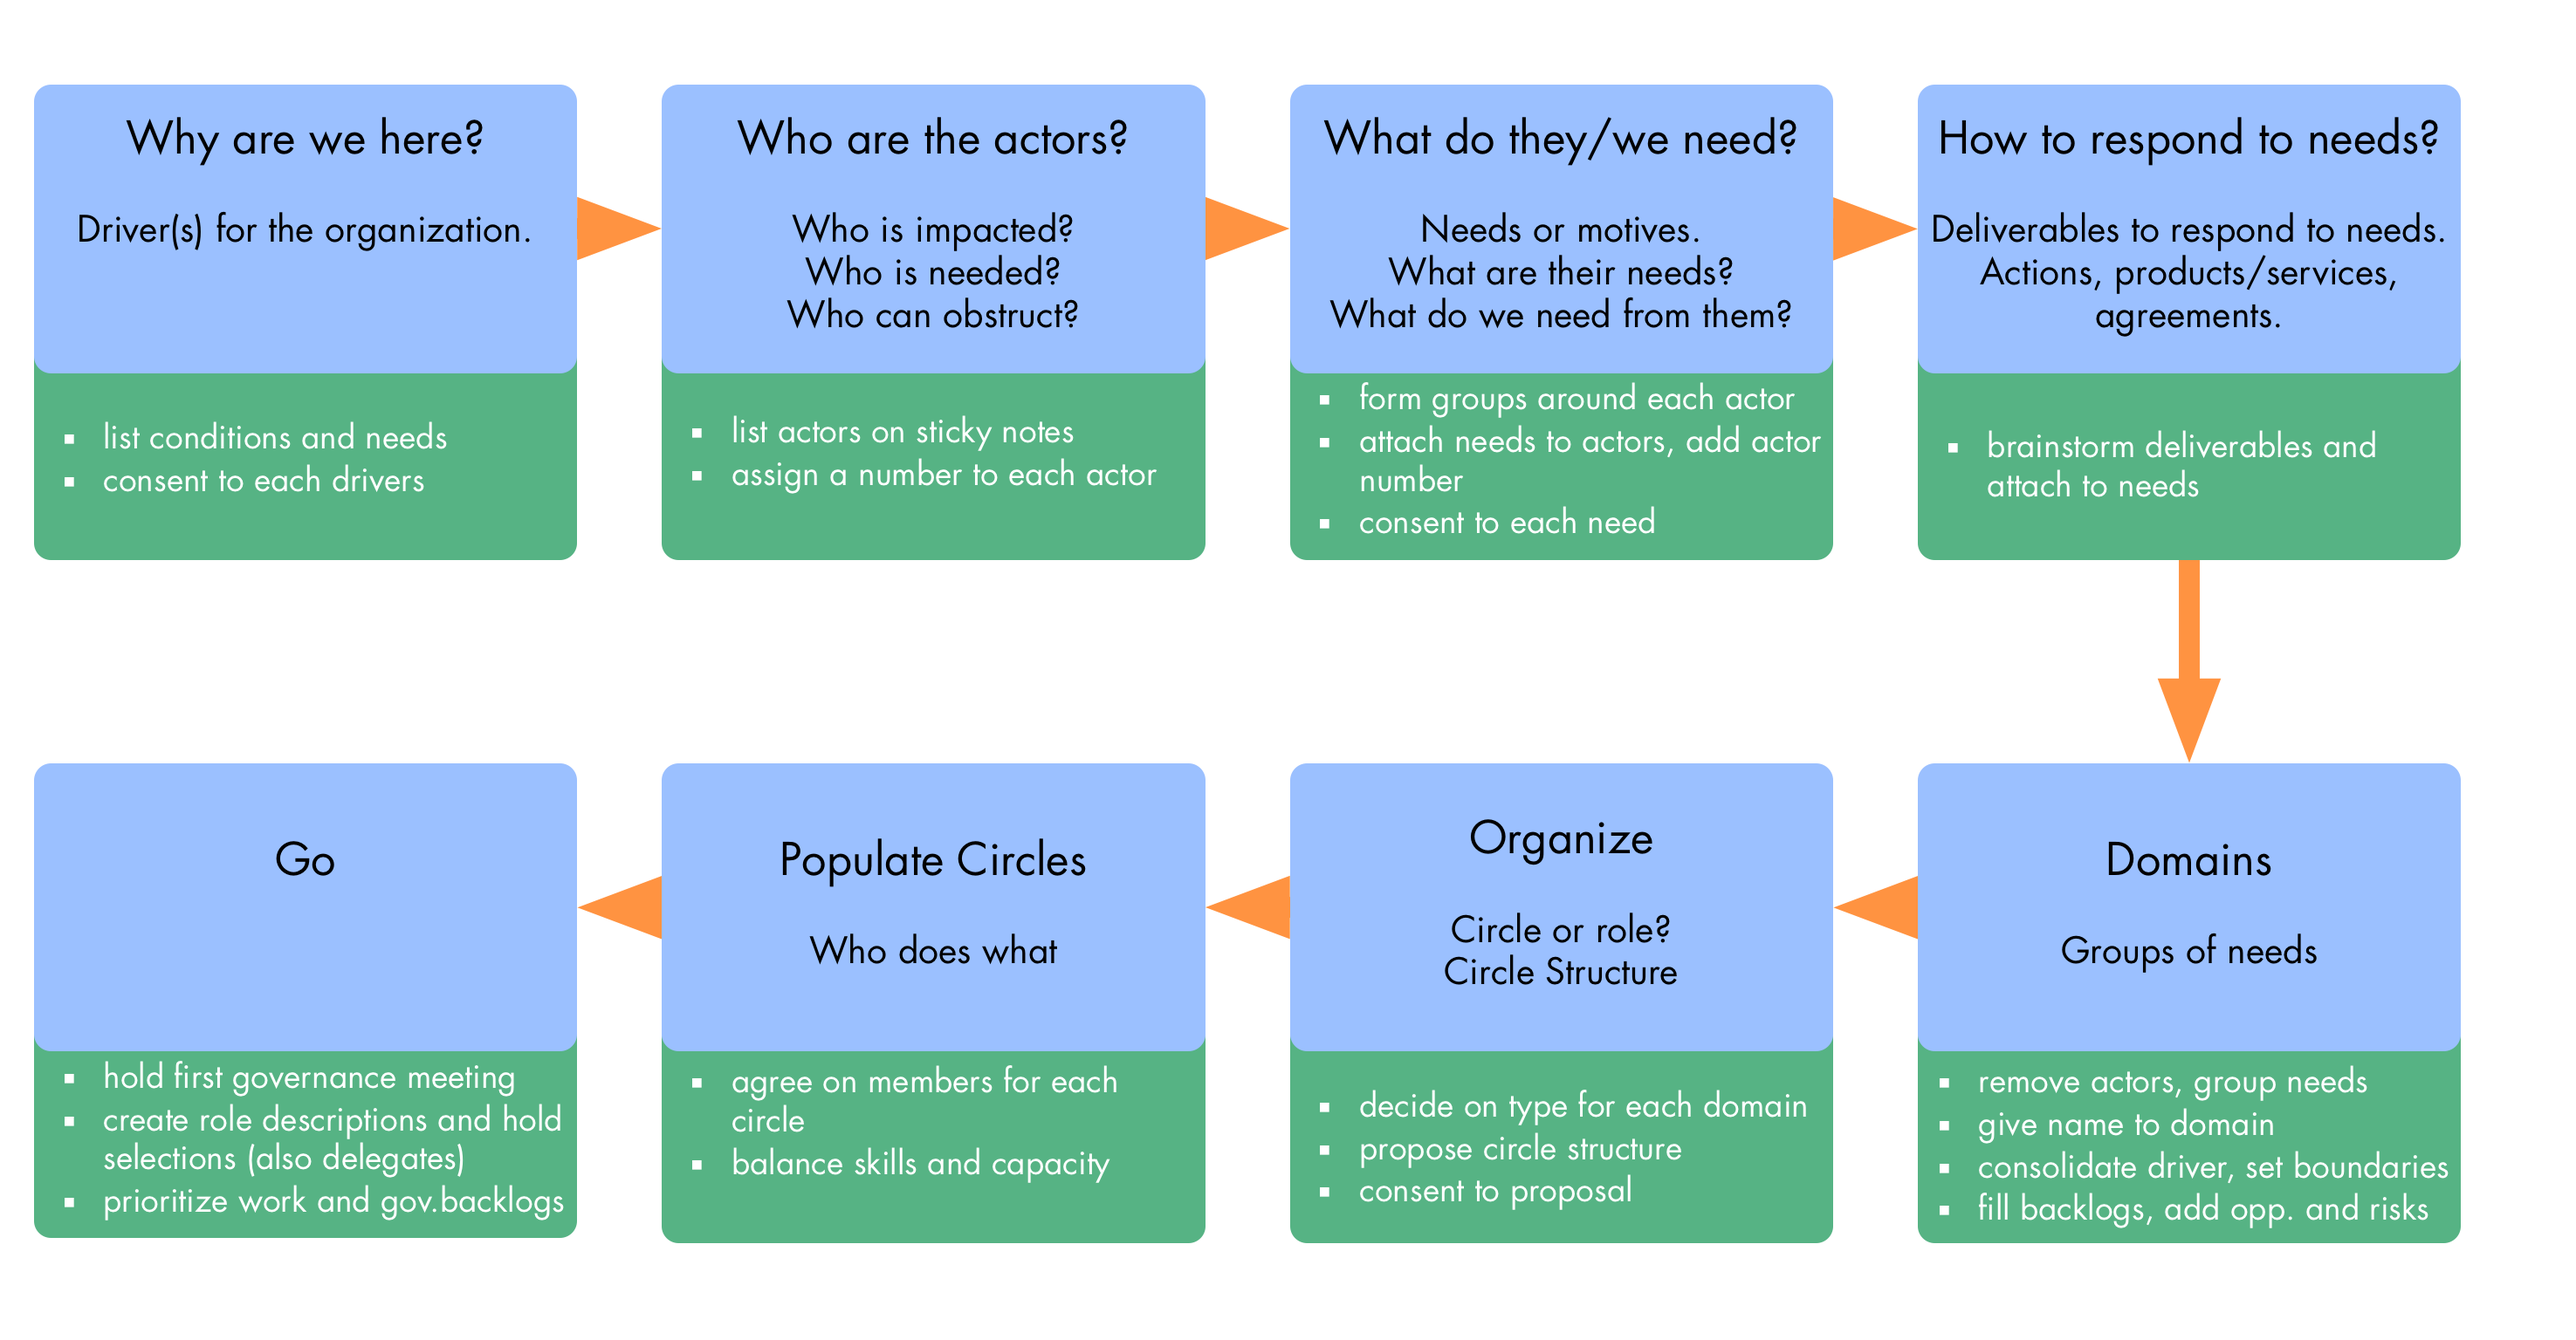
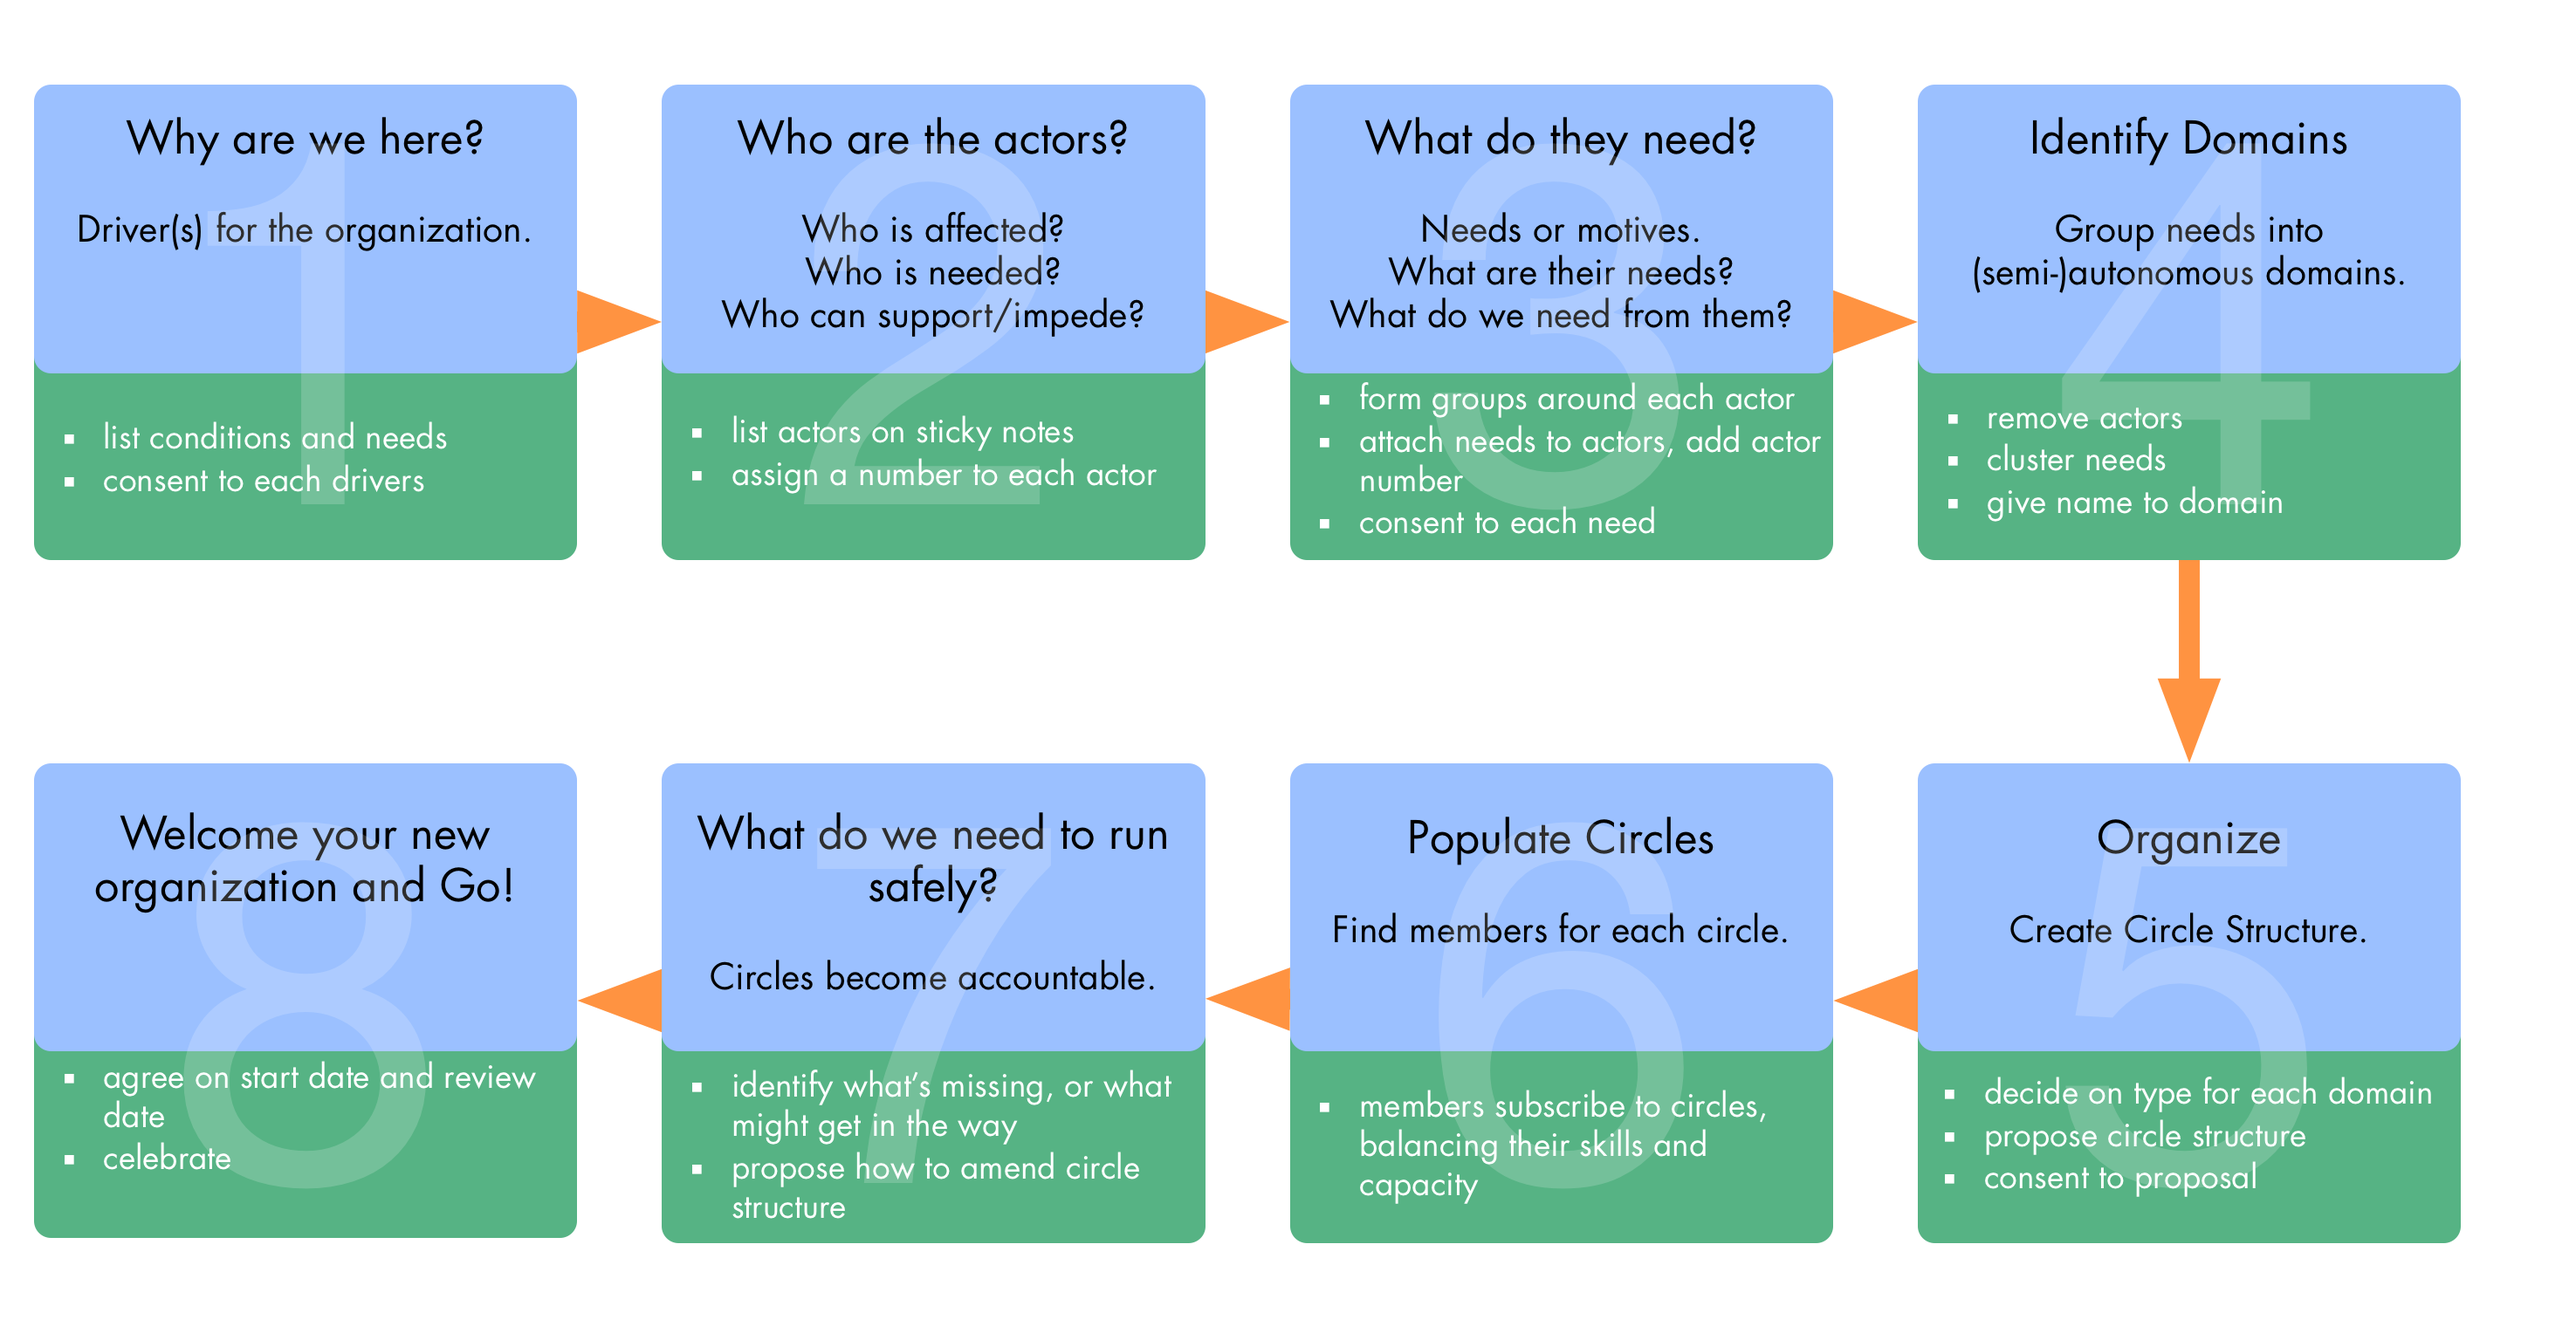
added driver mapping to handbook, updated illustration

diff --git a/driver-mapping.md b/driver-mapping.md
@@ -2,83 +2,143 @@
 title: Driver Mapping
 ---
 
+Driver mapping is a workshop format for identifying organizational structure within a domain or  an entire organization. It's based on *Impact Mapping* by Gojko Adzic, but focussed more on flow of value and information, instead of actual deliverables (identifying deliverables is the accountability of the respective domain).
 
-## Why are we here?
+The result of driver mapping is organizational structure aligned to the pull of external and internal actors, e.g. customers/users, partners, members, communities and municipalities.
 
-(Drivers for the organization)
+Depending on the size of the organization, department or team affected, driver mapping will have to be facilitated in a different way.
 
-* conditions and needs
-* consent to primary/each driver
+Most of the activities described below are suitable for groups of 10-15 people (depending maturity of the group and skill of the facilitator), for larger groups consider having participants self-organize into groups of up to five people, and add activities to consolidate input of the groups and consent to the result.
 
+The implementation of driver mapping explained below is just one way to implement it, make sure to adapt it to your specific needs, e.g. using [Adapt Patterns To Context][].
 
-## Who are the actors?
+## Step 1: Why are we here?
 
-* Who is impacted?
+Understand the driver(s) for the organization, and describe it in terms of needs and conditions and consent to each driver. Output of this phase is one or more posters with details on the driver(s).
+
+* focus on completeness and shared understanding, but don't waste time on writing elegant statements, this is a task for later
+* get input for both internal and external view on the driver(s)
+
+Generative questions:
+
+* individual perspective (first): "why are you with this organization?" and "what is it  you wish for?"
+* organizations perspective (second): "why are we here?"
+
+When working with subgroups for the activities, collect the individual perspective first and share with the whole group before working on the organizational perspective. Instruct subgroups to only share *what* people said, but not to link it to *who* said it.
+
+## Step 2: Who are the actors?
+
+List actors and stakeholders pulling on the organization. Actors can be individuals or groups, also the organization itself, or parts of it, as well as individual members.
+
+Output of this step is a collection of all relevant actors, each on a separate sticky note or card (use the same color for all actors).
+
+Generative questions:
+
+* Who is affected?
 * Who is needed?
-* Who can obstruct?
+* Who can support or impede?
 
-Assign a number to each actor.
+At the end, assign a number to each actor.
 
 
-## What do we/they need?
+## Step 3: What do they need?
 
-Needs or motives (subdrivers)?
+Collect needs and motives.
 
-* What are their needs?
+Output of this step is a collection of needs on sticky notes (use the same color for all needs).
+
+Generative questions:
+
+* What are the needs of each actor?
 * What do we need from them?
 
-* (in a large group: form smalls group around each actor)
-* add needs on stickies to each actor and add the actor’s number
-* make sure group consents to each needs
+* add needs on sticky notes to each actor and add the actor’s number to each one
+* with large group: form smalls group around each actor
+* make sure group consents to each need, explicitly ask them to seek out needs they don't agree with and resolve the resulting objections
+
+## Step 4: Identify Domains
+
+Group needs into (semi-)autonomous domains.
+
+Output of this step is a set of posters with domains, which will later be implemented as circles, roles, or, in some cases, agreements.
+
+Remove actors cards and and group needs into logical clusters, those are your domains.
+
+Move each group to a poster and agree on a meaningful name for each domain.
+
+![A Simple Template for Domains ](img/tension-driver-domain/domain-template.png)
+
+Add boundaries, or other relevant bits of information popping up (risks, questions etc.) on sticky notes to the domains.
 
 
-## How to respond to needs?
+## Step 5: Organize
 
-What could (help) to fulfill the needs: the deliverables and expectations.
+Agree on circle structure for domains.
 
-* actions
-* products or services
-* agreements
+Output of this step is an agreement on how domains will be connected and coordinated (if necessary), as well as the type (circle, role, agreement) for each domain.
 
-Brainstorm ideas and attach them to needs.
+Create a proposal for circle structure (including roles, if any), include delegate circles, coordination circles and service circles to link domains as needed. 
 
+Use proposal forming, or proposal forming for large groups (collect considerations and ideas in small groups and send delegates) to build the proposal.
 
-## Domains
+Consent to proposal and integrate any objections you encounter. 
 
-Remove actors and group needs into logical clusters, those are your domains (circles, roles, or agreements).
-
-Give a meaningful name to each domain.
-
-Consolidate the driver, add conditions, set boundaries/scope of domain (can also be done later) 
-
-Sort deliverables into work backlog (work items, clear, well-defined) and governance backlog (meta-items, large, uncertain, impact way of working)
-
-Brainstorm challenges, impediments, risks and opportunities for each domain and add to governance backlog.
+Add role selections and emerging items to governance backlogs of each domain, and assign the review for the circle structure to the appropriate domain.
 
 
-## Organize
+## Step 6: Populate circles
 
-Process each domain in turn: circle or role (or agreement)?
+Find members for each circle
 
-Create proposal for circle structure (including roles, if any), use delegate circles to link domains as needed.
+Output of this step is a list of members for each circle.
 
-Consent to proposal.
+Generative question:
 
-Add role selections and agreements to governance backlogs.
+* Who can contribute to which circles?
 
-
-## Populate circles
-
-Agree on members for each circle
+People add their name on a sticky note to circles they think they can contribute to effectively, taking into account the their skills and other relevant factors. Should some people decide to be part of several circles, they are accountable for balancing their available time. 
 
 
-## Go
+## Step 7: What do we need to run safely?
 
-Hold first governance meeting, then start working
+Circles meet and make sure their circle is able to respond to its driver effectively.
 
-Create role descriptions and hold selections for roles (including delegates)
+Output of this phase is a collection of proposals for amending circle structures and circle membership, as well as open questions, work items and governance items for each circle.
 
-Prioritize work and governance backlogs
+Have each circle gather around their domain poster and review the domain's viability, both as a (semi-)autonomous unit and in relationship to the rest of the organization.
 
+Identify...
+
+* missing resources or skills or capacity
+* unclear boundaries or scope of the circle
+* open questions
+* required handovers or tasks for transitioning from the previous structure (if any)
+* risks, challenges, impediments and opportunities
+
+...and add them as work items or governance items to the circle poster.
+
+When facilitating this step, visit each circle to support them, and remind participants to visit all the circles they are members of.
+
+Circles create proposals for adapting circle structure or circle membership if necessary, and present them to the whole group. Amend circle structure as needed. 
+
+
+## Step 8: Welcome your new organization
+
+Celebrate your new organization, and agree on start and review date. 
+
+Output of this step is an agreement when the new circle structure will be implemented, when it will be reviewed, and who will guide the process.
 
 ![The Steps of Driver Mapping](img/tension-driver-domain/driver-mapping.png)
+
+
+## What's next? 
+
+Here's a list of things the new circles will have to do, e.g. in their first governance meeting, before they can start working:
+
+* Prioritize work and governance backlogs
+* Refine description of the circle's driver, explain conditions, set clear boundaries/define scope of domain
+* Identify deliverables (tasks, products/services) and reasonable expectations for responding to the circle's driver,  and add them to either the work backlog (work items, clear, well-defined) and governance backlog (meta-items, large, uncertain, impact on way of working)
+* Brainstorm challenges, impediments, risks and opportunities for each domain and add to governance backlog.
+* Create role descriptions and hold selections for roles (including delegates)
+* Make a plan for handover and transition from the previous structure
+

diff --git a/slides/src/bringing-in-s3-patterns/driver-mapping.md b/slides/src/bringing-in-s3-patterns/driver-mapping.md
@@ -1,3 +1,16 @@
 ## Driver Mapping
 
+* a workshop format for identifying organizational structure (domain or  entire organization)
+* based on *Impact Mapping* by Gojko Adzic, but focussed on flow of value and information, instead of actual deliverables
+* alignment of organization to the pull of (external and internal) actors, e.g. customers, partners, members
+
+---
+
+
 ![inline,fit](img/tension-driver-domain/driver-mapping.png)
+
+---
+
+## Driver Mapping: Template for Domains 
+
+![inline,fit](img/tension-driver-domain/domain-template.png)
